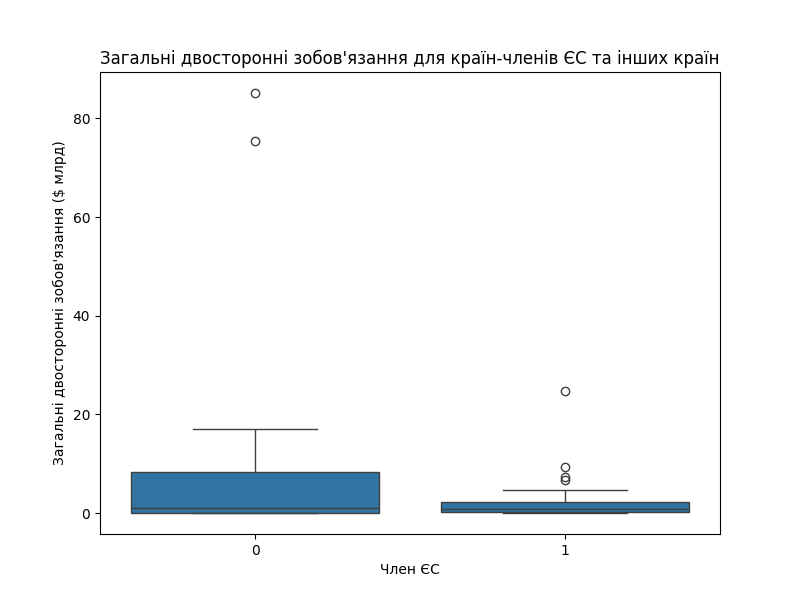
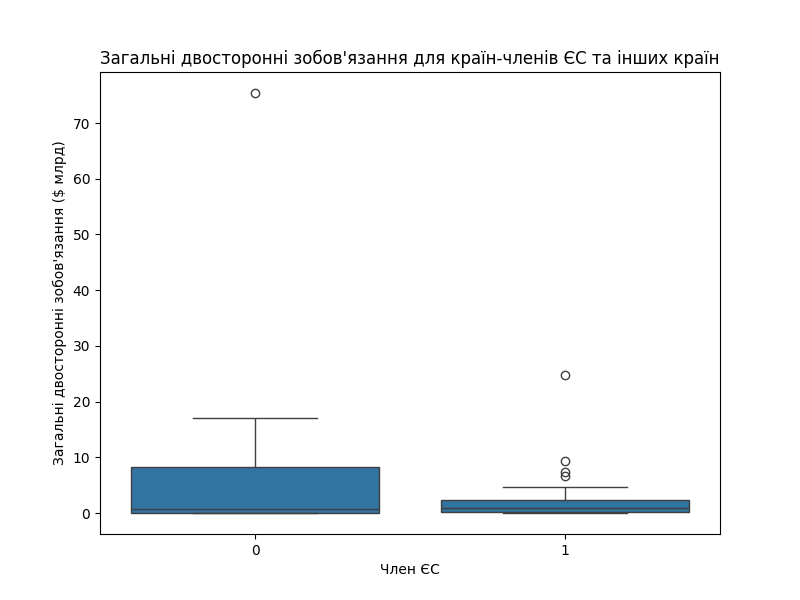
Enhance config management by adding results directory setup and clearing functionality; update analysis results formatting

diff --git a/MIAZ_Practices/Practice_3_3/dataset_analyze.py b/MIAZ_Practices/Practice_3_3/dataset_analyze.py
@@ -42,8 +42,7 @@ def analyze_data(commitments_df, allocations_df, output_dir):
     print("\nПропущені значення в 'Financial Allocations.csv':")
     print(allocations_df.isnull().sum())
 
-    # нічого видаляти не потрібно, оскільки країни могли не декларувати допомогу, або не виконати зобов'язання або у нас немає даних
-    # # Заповнення пропущених значень середнім значенням
+    # Заповнення пропущених значень середнім значенням (закоментовано)
     # for column in commitments_df.columns:
     #     if commitments_df[column].isnull().any():
     #         if pd.api.types.is_numeric_dtype(commitments_df[column]):
@@ -58,9 +57,9 @@ def analyze_data(commitments_df, allocations_df, output_dir):
     #         else:
     #             print(f"Пропуски в нечисловому стовпці '{column}' в 'Financial Allocations.csv' не замінено.")
 
-    # # Видалення дублікатів
-    # commitments_df.drop_duplicates(inplace=True)
-    # allocations_df.drop_duplicates(inplace=True)
+    # Видалення дублікатів
+    commitments_df.drop_duplicates(inplace=True)
+    allocations_df.drop_duplicates(inplace=True)
 
     # Перетворення категоріальних змінних на числові (якщо потрібно)
     if 'EU member' in commitments_df.columns:
@@ -71,9 +70,6 @@ def analyze_data(commitments_df, allocations_df, output_dir):
 
     # Об'єднуємо дані по країні
     merged_data = pd.merge(commitments_df, allocations_df, on="Country", suffixes=('_commitments', '_allocations'))
-
-    # Створюємо папку для збереження результатів, якщо її немає
-    os.makedirs(output_dir, exist_ok=True)
 
     # Відкриваємо файл для запису результатів
     with open(os.path.join(output_dir, "analysis_results.txt"), "w") as f:
@@ -109,25 +105,40 @@ def analyze_data(commitments_df, allocations_df, output_dir):
         print_and_write(allocations_df.sort_values(by="Total bilateral allocations($ billion)", ascending=False).head(5)[['Country', "Total bilateral allocations($ billion)"]])
 
         print_and_write("\nСереднє співвідношення між виділеними коштами та зобов'язаннями для країн-членів ЄС (після обробки):")
-        eu_commitments = commitments_df[commitments_df['EU member'] == 1]
-        eu_allocations = allocations_df[allocations_df['EU member'] == 1]
 
-        if not eu_commitments.empty and not eu_allocations.empty:
-            merged_data = pd.merge(eu_commitments, eu_allocations, on="Country", suffixes=('_commitments', '_allocations'))
-            merged_data['Allocation_to_Commitment_Ratio'] = merged_data["Total bilateral allocations($ billion)"] / merged_data["Total bilateral commitments($ billion)"]
-            print_and_write(merged_data['Allocation_to_Commitment_Ratio'].mean())
+        # Розрахунок співвідношення для всіх країн
+        merged_data['Allocation_to_Commitment_Ratio'] = merged_data["Total bilateral allocations($ billion)"] / merged_data["Total bilateral commitments($ billion)"]
 
-            # Додаємо стовпець 'EU member' до merged_data
-            merged_data['EU member'] = 1
-        else:
-            print_and_write("Недостатньо даних для розрахунку середнього співвідношення для країн-членів ЄС.")
+        # Виводимо середнє для ЄС
+        eu_mean_ratio = merged_data[merged_data['EU member_commitments'] == 1]['Allocation_to_Commitment_Ratio'].mean()
+        print_and_write(f"Середнє для країн ЄС: {eu_mean_ratio}")
+
+        # Виводимо середнє для не-ЄС
+        non_eu_mean_ratio = merged_data[merged_data['EU member_commitments'] == 0]['Allocation_to_Commitment_Ratio'].mean()
+        print_and_write(f"Середнє для країн не-ЄС: {non_eu_mean_ratio}")
+
+        # Замінюємо англійські назви колонок на українські для відображення на графіках
+        merged_data = merged_data.rename(columns={
+            'Total bilateral commitments($ billion)': 'Загальні двосторонні зобов\'язання ($ млрд)',
+            'Total bilateral allocations($ billion)': 'Загальні двосторонні асигнування ($ млрд)',
+            'EU member_commitments': 'Член ЄС (зобов\'язання)',
+            'EU member_allocations': 'Член ЄС (асигнування)'
+        })
+
+        commitments_df = commitments_df.rename(columns={
+            'Total bilateral commitments($ billion)': 'Загальні двосторонні зобов\'язання ($ млрд)'
+        })
+
+        allocations_df = allocations_df.rename(columns={
+          'Total bilateral allocations($ billion)': 'Загальні двосторонні асигнування ($ млрд)'
+        })
 
         # Візуалізація даних
         print_and_write("\nВізуалізація даних:")
 
         # Гістограма для 'Total bilateral commitments($ billion)'
         plt.figure(figsize=(10, 6))
-        sns.histplot(commitments_df['Total bilateral commitments($ billion)'], bins=20, kde=True)
+        sns.histplot(commitments_df['Загальні двосторонні зобов\'язання ($ млрд)'], bins=20, kde=True)
         plt.title('Розподіл загальних двосторонніх зобов\'язань')
         plt.xlabel('Загальні двосторонні зобов\'язання ($ млрд)')
         plt.ylabel('Кількість країн')
@@ -136,7 +147,7 @@ def analyze_data(commitments_df, allocations_df, output_dir):
 
         # Гістограма для 'Total bilateral allocations($ billion)'
         plt.figure(figsize=(10, 6))
-        sns.histplot(allocations_df['Total bilateral allocations($ billion)'], bins=20, kde=True)
+        sns.histplot(allocations_df['Загальні двосторонні асигнування ($ млрд)'], bins=20, kde=True)
         plt.title('Розподіл загальних двосторонніх асигнувань')
         plt.xlabel('Загальні двосторонні асигнування ($ млрд)')
         plt.ylabel('Кількість країн')
@@ -145,16 +156,16 @@ def analyze_data(commitments_df, allocations_df, output_dir):
 
         # Коробковий діаграма (boxplot) для 'Total bilateral commitments($ billion)' за групами 'EU member'
         plt.figure(figsize=(8, 6))
-        sns.boxplot(x='EU member', y='Total bilateral commitments($ billion)', data=commitments_df)
+        sns.boxplot(x='Член ЄС (зобов\'язання)', y='Загальні двосторонні зобов\'язання ($ млрд)', data=merged_data)
         plt.title('Загальні двосторонні зобов\'язання для країн-членів ЄС та інших країн')
         plt.xlabel('Член ЄС')
         plt.ylabel('Загальні двосторонні зобов\'язання ($ млрд)')
         plt.savefig(os.path.join(output_dir, "boxplot_commitments_eu.png"))
         plt.show()
 
-        # Коробкова діаграма (boxplot) для 'Total bilateral allocations($ billion)' за групами 'EU member'
+        # Коробковий діаграма (boxplot) для 'Total bilateral allocations($ billion)' за групами 'EU member'
         plt.figure(figsize=(8, 6))
-        sns.boxplot(x='EU member', y='Total bilateral allocations($ billion)', data=allocations_df)
+        sns.boxplot(x='Член ЄС (асигнування)', y='Загальні двосторонні асигнування ($ млрд)', data=merged_data)
         plt.title('Загальні двосторонні асигнування для країн-членів ЄС та інших країн')
         plt.xlabel('Член ЄС')
         plt.ylabel('Загальні двосторонні асигнування ($ млрд)')
@@ -163,10 +174,22 @@ def analyze_data(commitments_df, allocations_df, output_dir):
 
         # Діаграма розсіювання для 'Total bilateral commitments($ billion)' vs 'Total bilateral allocations($ billion)'
         plt.figure(figsize=(10, 6))
-        sns.scatterplot(x='Total bilateral commitments($ billion)', y='Total bilateral allocations($ billion)', data=merged_data, hue='EU member')
+        # Створюємо словник для заміни значень в легенді
+        legend_dict = {1: "Так", 0: "Ні"}
+
+        sns.scatterplot(x='Загальні двосторонні зобов\'язання ($ млрд)', y='Загальні двосторонні асигнування ($ млрд)',
+                        data=merged_data, hue='Член ЄС (зобов\'язання)', palette={0: 'skyblue', 1: 'lightgreen'})
+
         plt.title('Залежність між загальними зобов\'язаннями та асигнуваннями')
         plt.xlabel('Загальні двосторонні зобов\'язання ($ млрд)')
         plt.ylabel('Загальні двосторонні асигнування ($ млрд)')
+
+        # Отримуємо поточні мітки легенди
+        handles, labels = plt.gca().get_legend_handles_labels()
+
+        # Замінюємо мітки легенди, використовуючи словник
+        plt.legend(handles=handles, labels=[legend_dict.get(int(label), label) for label in labels], title='Член ЄС')
+
         plt.savefig(os.path.join(output_dir, "scatterplot_commitments_allocations.png"))
         plt.show()
 
@@ -174,8 +197,8 @@ def analyze_data(commitments_df, allocations_df, output_dir):
         plt.figure(figsize=(12, 10))
         sns.heatmap(commitments_df.corr(numeric_only=True), annot=True, cmap='coolwarm', annot_kws={"fontsize": 8})
         plt.title('Кореляційна матриця (Financial Commitments)')
-        plt.xticks(fontsize=8)
-        plt.yticks(fontsize=8)
+        plt.xticks(fontsize=8, rotation=45, ha='right')
+        plt.yticks(fontsize=8, rotation=0)
         plt.tight_layout()
         plt.savefig(os.path.join(output_dir, "correlation_matrix_commitments.png"))
         plt.show()
@@ -183,8 +206,8 @@ def analyze_data(commitments_df, allocations_df, output_dir):
         plt.figure(figsize=(12, 10))
         sns.heatmap(allocations_df.corr(numeric_only=True), annot=True, cmap='coolwarm', annot_kws={"fontsize": 8})
         plt.title('Кореляційна матриця (Financial Allocations)')
-        plt.xticks(fontsize=8)
-        plt.yticks(fontsize=8)
+        plt.xticks(fontsize=8, rotation=45, ha='right')
+        plt.yticks(fontsize=8, rotation=0)
         plt.tight_layout()
         plt.savefig(os.path.join(output_dir, "correlation_matrix_allocations.png"))
         plt.show()
@@ -193,15 +216,33 @@ def analyze_data(commitments_df, allocations_df, output_dir):
         plt.figure(figsize=(14, 8))
 
         # Створюємо DataFrame для візуалізації
-        plot_data = merged_data[['Country', 'Total bilateral commitments($ billion)', 'Total bilateral allocations($ billion)']]
-        plot_data = plot_data.melt(id_vars='Country', var_name='Type', value_name='Amount')
+        plot_data = merged_data[['Country', 'Загальні двосторонні зобов\'язання ($ млрд)', 'Загальні двосторонні асигнування ($ млрд)', 'Член ЄС (зобов\'язання)']]
+        plot_data = plot_data.melt(id_vars=['Country', 'Член ЄС (зобов\'язання)'], var_name='Type', value_name='Amount')
 
-        sns.barplot(x='Country', y='Amount', hue='Type', data=plot_data)
-        plt.title('Порівняння зобов\'язань та асигнувань по країнах')
+        # Замінюємо англійські назви на українські перед побудовою графіка
+        plot_data['Type'] = plot_data['Type'].replace({
+            'Загальні двосторонні зобов\'язання ($ млрд)': 'Загальні двосторонні зобов\'язання',
+            'Загальні двосторонні асигнування ($ млрд)': 'Загальні двосторонні асигнування'
+        })
+
+        sns.barplot(x='Country', y='Amount', hue='Type', data=plot_data, palette=['skyblue', 'lightgreen'])
+
+        # Додаємо легенду для 'EU member'
+        for i, patch in enumerate(plt.gca().patches):
+            if i < len(merged_data):
+                if merged_data['Член ЄС (зобов\'язання)'].iloc[i] == 1:
+                    patch.set_hatch('/')
+
+        # показуємо легенду
+        handles, labels = plt.gca().get_legend_handles_labels()
+        handles.append(plt.Rectangle((0,0),1,1, fc="white",ec="black",hatch='/'))
+        labels.append("Член ЄС")
+        plt.legend(handles, labels, title='Тип / Членство в ЄС')
+
+        plt.title('Порівняння зобов\'язань та асигнувань по країнах (з виділенням країн ЄС)')
         plt.xlabel('Країна')
         plt.ylabel('Сума ($ млрд)')
         plt.xticks(rotation=45, ha='right')
-        plt.legend(title='Тип')
         plt.tight_layout()
         plt.savefig(os.path.join(output_dir, "barplot_commitments_allocations.png"))
         plt.show()

diff --git a/MIAZ_Practices/Practice_3_3/config.py b/MIAZ_Practices/Practice_3_3/config.py
@@ -1,4 +1,5 @@
 import os
+import shutil
 
 class Config:
     """
@@ -11,6 +12,7 @@ class Config:
         self.current_directory = os.path.dirname(os.path.abspath(__file__))
         self.dataset_directory = os.path.join(self.current_directory, "DataSet")
         self.results_directory = os.path.join(self.current_directory, "results")
+        self.setup_results_directory()  # Створюємо або очищуємо папку results при ініціалізації
 
     def get_current_directory(self):
         """
@@ -38,3 +40,27 @@ class Config:
             str: Шлях до папки з результатами.
         """
         return self.results_directory
+
+    def clear_results_directory(self):
+        """
+        Очищає папку з результатами від попередньо створених файлів.
+        """
+        if os.path.exists(self.results_directory):
+            for filename in os.listdir(self.results_directory):
+                file_path = os.path.join(self.results_directory, filename)
+                try:
+                    if os.path.isfile(file_path) or os.path.islink(file_path):
+                        os.unlink(file_path)
+                    elif os.path.isdir(file_path):
+                        shutil.rmtree(file_path)
+                except Exception as e:
+                    print(f"Не вдалося видалити {file_path}. Причина: {e}")
+
+    def setup_results_directory(self):
+        """
+        Створює папку для результатів, якщо її немає, або очищує її, якщо вона існує.
+        """
+        if not os.path.exists(self.results_directory):
+            os.makedirs(self.results_directory)
+        else:
+            self.clear_results_directory()
